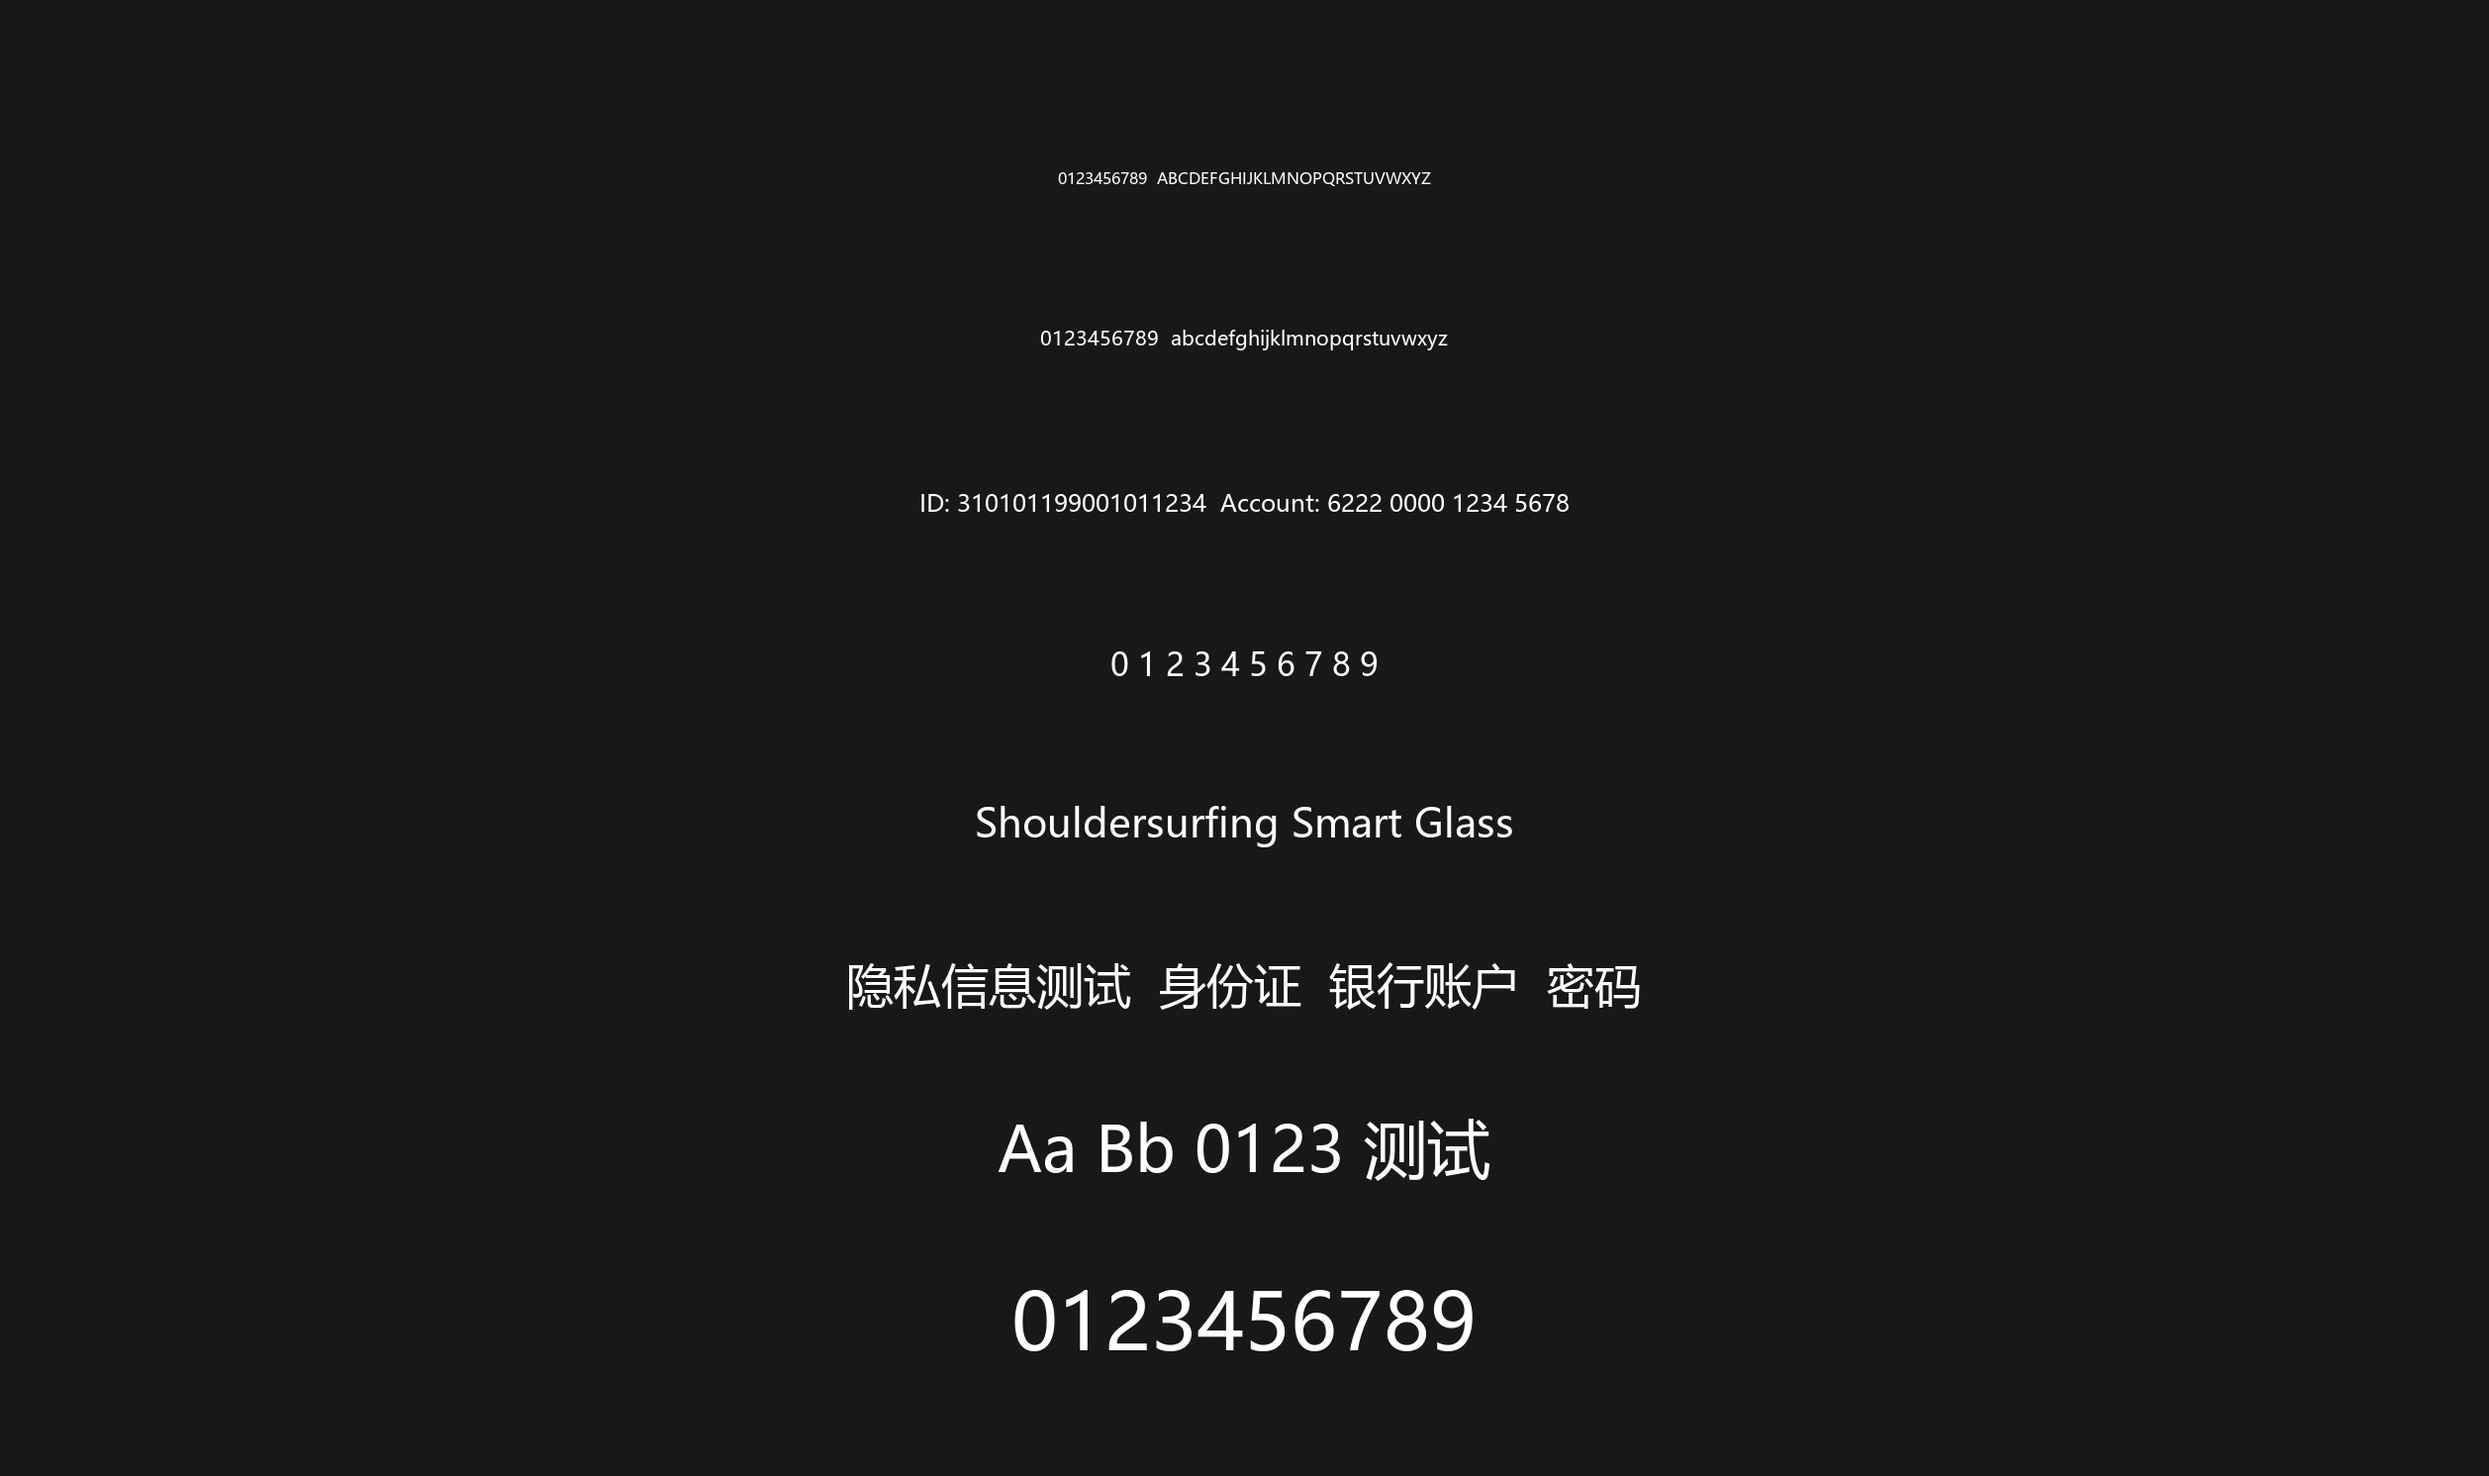
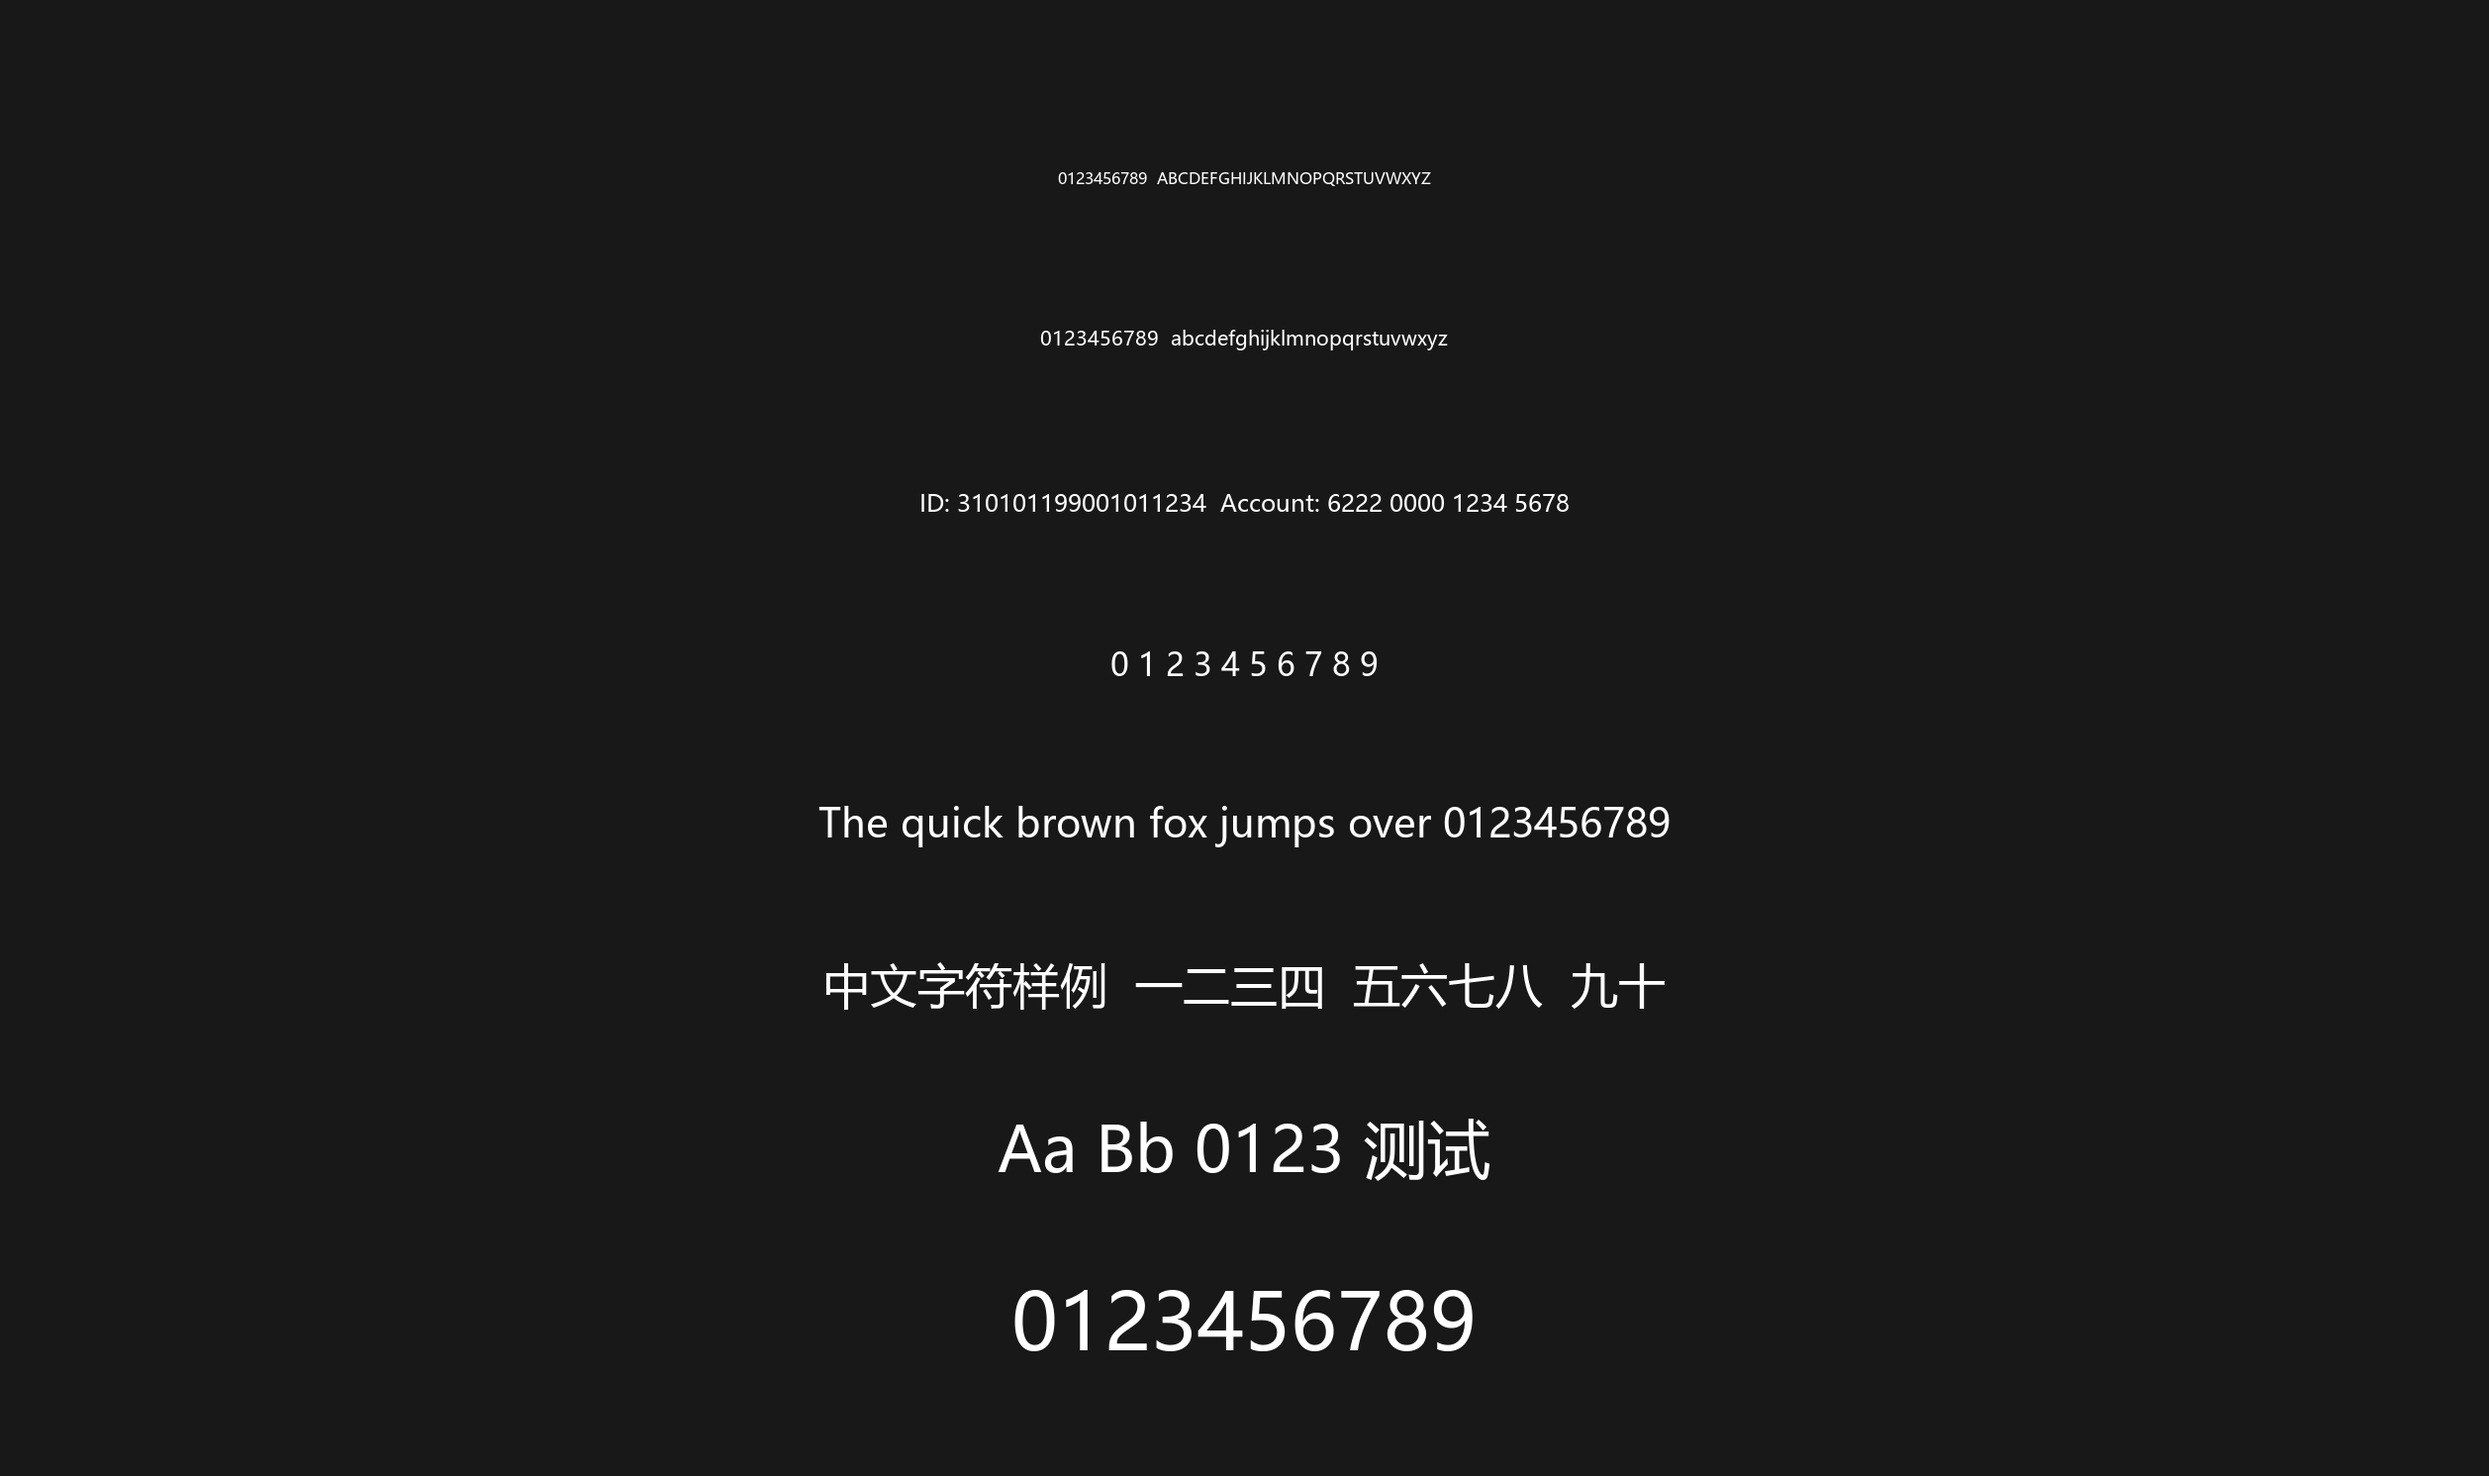
assets: neutralize calibration text samples

Changed region(s): [[0.3412, 0.5245, 0.6823, 0.5862], [0.3101, 0.6479, 0.6823, 0.6787]]

diff --git a/images/generate_calibration_b.py b/images/generate_calibration_b.py
@@ -235,8 +235,8 @@ def text_chart(
         (20, "0123456789  abcdefghijklmnopqrstuvwxyz"),
         (24, "ID: 310101199001011234  Account: 6222 0000 1234 5678"),
         (32, "0 1 2 3 4 5 6 7 8 9"),
-        (40, "Shouldersurfing Smart Glass"),
-        (48, "隐私信息测试  身份证  银行账户  密码"),
+        (40, "The quick brown fox jumps over 0123456789"),
+        (48, "中文字符样例  一二三四  五六七八  九十"),
         (64, "Aa Bb 0123 测试"),
         (80, "0123456789"),
     ]
